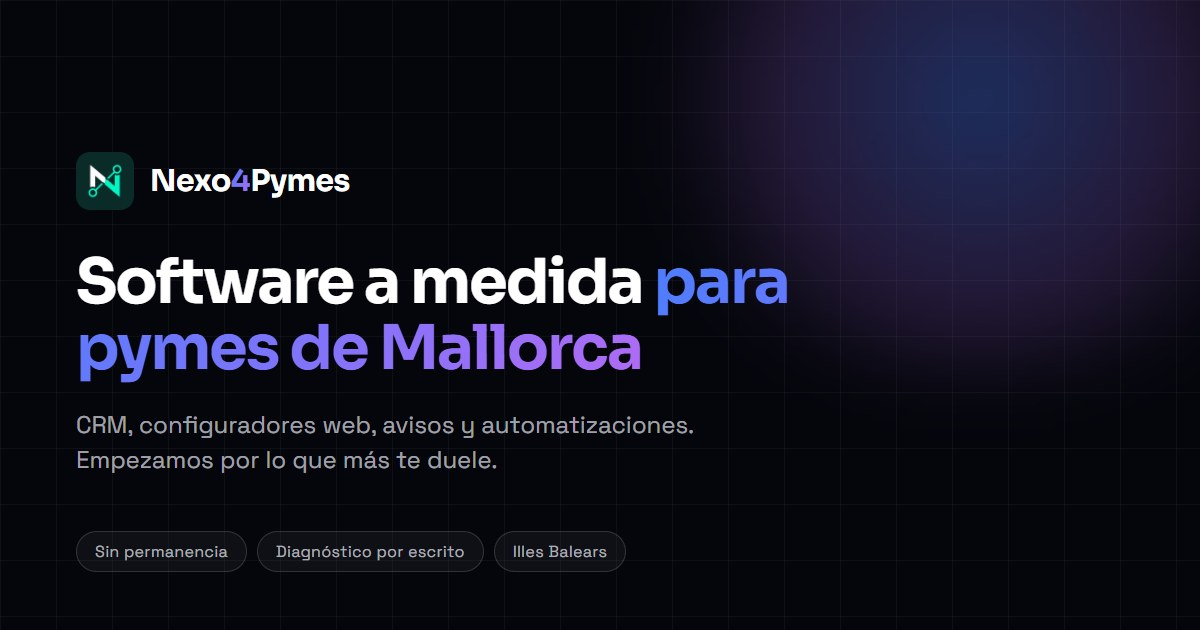
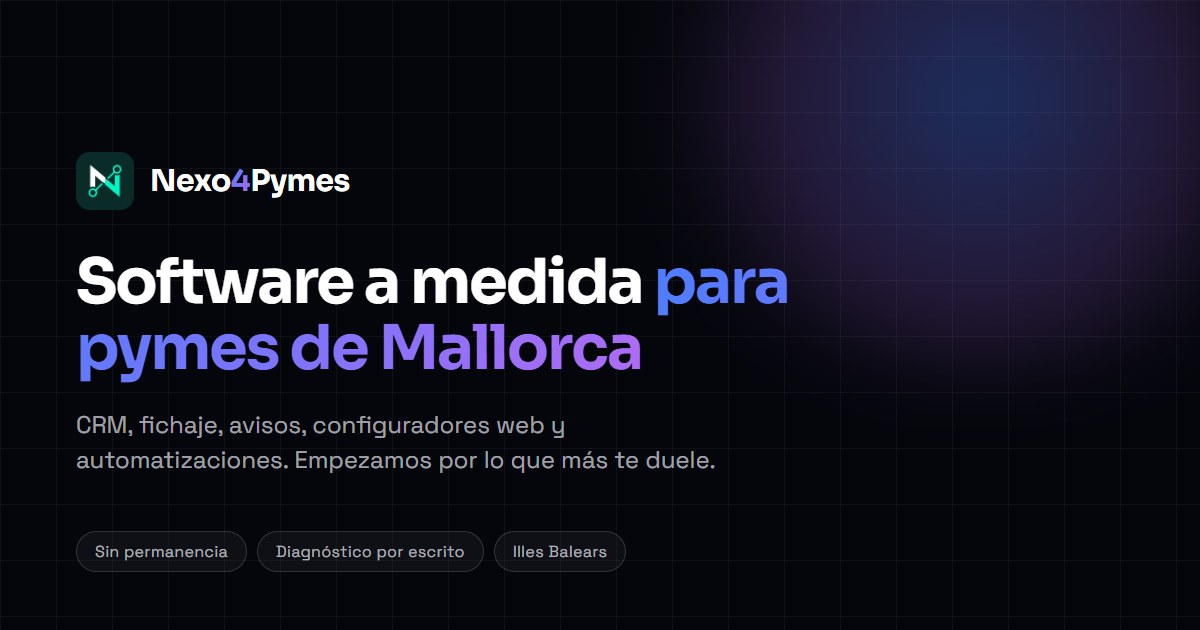
Datos legales en un solo sitio, y el fichaje como cuarta pieza
DATOS LEGALES
La web llevaba meses publicando cinco "[PENDIENTE]" en el CIF, el
domicilio y los datos registrales. No fue mala fe: es que un hueco en
el aviso legal no rompe nada, no sale en ningun error y no lo ve quien
despliega. Solo lo ve el cliente que entra a comprobar si la empresa
existe — que es justo el que estaba a punto de fiarse.

- los datos salen de content/marca.ts, un solo sitio. Antes estaban a
  mano y repetidos en dos listas de la misma pagina, que es como se
  acaban contradiciendo
- el build AVISA cuando falta algo, diciendo que campo y donde se
  edita. Avisa, no rompe: tumbar el despliegue por un dato que se esta
  tramitando en una notaria seria peor
- lo que falta se dice con una frase normal ("pendiente de
  completar"), no con un corchete de programador
- los datos registrales no se pintan como hueco: no pueden existir
  hasta que exista la sociedad, y ensenar un vacio ahi confunde
- figura el NIF del titular, no un CIF: la S.L. esta en constitucion,
  asi que quien responde del sitio es la persona fisica y la LSSI
  obliga a identificarla. Se explica en la propia pagina para que no
  parezca un error
- la fecha de ultima revision tambien sale del mismo archivo: escrita
  a mano se quedaba vieja en cuanto alguien tocaba el texto

Quedan por rellenar el nombre completo del titular y el domicilio.
El build los nombra en cada despliegue hasta que esten.

FICHAJE
Ya esta construido y funcionando en una app de cliente, asi que entra
[…]

Changed region(s): [[0.0617, 0.7238, 0.5858, 0.754], [0.0925, 0.6635, 0.5858, 0.6937]]

diff --git a/app/legal/page.tsx b/app/legal/page.tsx
@@ -3,7 +3,8 @@ import Link from "next/link";
 import { FondoAmbiente } from "@/components/ui/FondoAmbiente";
 import { Reveal } from "@/components/motion/Reveal";
 import { BotonPreferencias } from "@/components/legal/BotonPreferencias";
-import { marca } from "@/content/marca";
+import { datosLegales, marca } from "@/content/marca";
+import { esPendiente, revisarDatosLegales } from "@/lib/legal";
 
 /* Aviso legal, privacidad y cookies.
    Tres secciones apiladas con id propio, no pestañas: así los enlaces
@@ -11,8 +12,22 @@ import { marca } from "@/content/marca";
    texto entero.
 
    El texto es el mismo, palabra por palabra: es contenido legal, no
-   copy de marketing. Los [PENDIENTE] son reales — se completan al
-   inscribir la sociedad. */
+   copy de marketing.
+
+   LOS DATOS DE LA EMPRESA YA NO SE ESCRIBEN AQUÍ. Vienen de
+   content/marca.ts → datosLegales, que es el único sitio donde se
+   tocan. Antes estaban a mano en esta página y llevaban meses
+   publicando cinco "[PENDIENTE]" en internet sin que nadie se
+   enterara: un hueco en el aviso legal no rompe nada y no sale en
+   ningún error, solo lo ve el cliente que entra a comprobar si la
+   empresa existe.
+
+   Ahora el build lo avisa (ver lib/legal.ts) y lo que falta se dice
+   con una frase honesta en vez de un corchete de programador. */
+
+/* Se ejecuta al construir la página, no en el navegador: el aviso
+   sale en el registro del despliegue. */
+revisarDatosLegales();
 
 export const metadata: Metadata = {
   title: "Aviso legal, privacidad y cookies",
@@ -34,6 +49,15 @@ function Pendiente({ children }: { children: React.ReactNode }) {
       {children}
     </span>
   );
+}
+
+/* Pinta un dato legal, o dice con una frase normal que todavía no está.
+   Lo que había antes era "[PENDIENTE — se asignará tras la inscripción
+   en el Registro Mercantil]": un corchete de programador publicado en
+   internet, que a un cliente le dice "esta web está a medio hacer". */
+function Dato({ valor, falta }: { valor: string; falta: string }) {
+  if (esPendiente(valor)) return <Pendiente>{falta}</Pendiente>;
+  return <>{valor}</>;
 }
 
 function Tarjeta({ children }: { children: React.ReactNode }) {
@@ -82,7 +106,13 @@ export default function PaginaLegal() {
             </h1>
           </Reveal>
           <Reveal retraso={0.06}>
-            <p className="mt-3 text-[14px] text-white/58">Última actualización: 4 de agosto de 2026</p>
+            {/* La fecha sale de content/marca.ts: escrita a mano aquí se
+                quedaba vieja cada vez que se tocaba el texto legal, y una
+                política de privacidad con fecha antigua resta credibilidad
+                justo donde se está pidiendo confianza. */}
+            <p className="mt-3 text-[14px] text-white/58">
+              Última actualización: {datosLegales.ultimaRevision}
+            </p>
           </Reveal>
 
           <Reveal retraso={0.12}>
@@ -113,18 +143,33 @@ export default function PaginaLegal() {
                 </p>
                 <Tarjeta>
                   <li>
-                    <strong className="font-medium text-[#F4F6FF]">Denominación social:</strong>{" "}
-                    Nexo4Pymes Automatización, S.L. (sociedad en constitución)
+                    <strong className="font-medium text-[#F4F6FF]">Titular del sitio:</strong>{" "}
+                    <Dato valor={datosLegales.titular} falta="pendiente de completar" />
                   </li>
                   <li>
-                    <strong className="font-medium text-[#F4F6FF]">CIF:</strong>{" "}
-                    <Pendiente>
-                      [PENDIENTE — se asignará tras la inscripción en el Registro Mercantil]
-                    </Pendiente>
+                    <strong className="font-medium text-[#F4F6FF]">Nombre comercial:</strong>{" "}
+                    {datosLegales.nombreComercial} — {marca.razonSocial}
                   </li>
                   <li>
-                    <strong className="font-medium text-[#F4F6FF]">Domicilio social:</strong> Mallorca,
-                    Illes Balears, España — <Pendiente>[PENDIENTE dirección completa]</Pendiente>
+                    <strong className="font-medium text-[#F4F6FF]">
+                      {datosLegales.etiquetaIdentificacion}:
+                    </strong>{" "}
+                    <Dato valor={datosLegales.identificacion} falta="pendiente de asignación" />
+                    {datosLegales.tipoTitular === "persona" && (
+                      <span className="text-white/50">
+                        {" "}
+                        — la sociedad está en constitución, así que responde del sitio la persona
+                        física hasta que se le asigne CIF
+                      </span>
+                    )}
+                  </li>
+                  <li>
+                    <strong className="font-medium text-[#F4F6FF]">
+                      Domicilio a efectos de notificaciones:
+                    </strong>{" "}
+                    <Dato valor={datosLegales.domicilio} falta="pendiente de completar" />
+                    {!esPendiente(datosLegales.domicilio) && " — "}
+                    {!esPendiente(datosLegales.domicilio) && `${marca.localidad}, ${marca.region}, España`}
                   </li>
                   <li>
                     <strong className="font-medium text-[#F4F6FF]">Correo electrónico:</strong>{" "}
@@ -136,12 +181,21 @@ export default function PaginaLegal() {
                     <strong className="font-medium text-[#F4F6FF]">Actividad:</strong> desarrollo de
                     software a medida e integración de sistemas para pymes y autónomos
                   </li>
-                  <li>
-                    <strong className="font-medium text-[#F4F6FF]">Datos registrales:</strong>{" "}
-                    <Pendiente>
-                      [PENDIENTE — se completará al inscribirse la sociedad en el Registro Mercantil]
-                    </Pendiente>
-                  </li>
+                  {/* Los datos registrales solo existen cuando existe la
+                      sociedad. Mientras no exista, la línea no se pinta:
+                      enseñar un hueco donde no puede haber nada todavía
+                      confunde más que no decir nada. */}
+                  {datosLegales.registroMercantil ? (
+                    <li>
+                      <strong className="font-medium text-[#F4F6FF]">Datos registrales:</strong>{" "}
+                      {datosLegales.registroMercantil}
+                    </li>
+                  ) : (
+                    <li className="text-white/55">
+                      <strong className="font-medium text-[#F4F6FF]">Datos registrales:</strong> se
+                      publicarán cuando la sociedad quede inscrita en el Registro Mercantil.
+                    </li>
+                  )}
                 </Tarjeta>
 
                 <h3 className="mt-8 text-[18px] text-[#F4F6FF]">2. Objeto y condiciones de uso</h3>
@@ -196,16 +250,25 @@ export default function PaginaLegal() {
 
                 <h3 className="mt-8 text-[18px] text-[#F4F6FF]">1. Responsable del tratamiento</h3>
                 <Tarjeta>
+                  {/* Mismos datos que el aviso legal y de la misma fuente:
+                      dos listas escritas a mano se acaban contradiciendo
+                      en cuanto alguien actualiza una sola. */}
                   <li>
                     <strong className="font-medium text-[#F4F6FF]">
-                      Nexo4Pymes Automatización, S.L.
+                      <Dato valor={datosLegales.titular} falta="pendiente de completar" />
                     </strong>{" "}
-                    (sociedad en constitución)
+                    ({marca.razonSocial})
                   </li>
                   <li>
-                    CIF: <Pendiente>[PENDIENTE]</Pendiente>
+                    {datosLegales.etiquetaIdentificacion}:{" "}
+                    <Dato valor={datosLegales.identificacion} falta="pendiente de asignación" />
                   </li>
-                  <li>Domicilio: Mallorca, Illes Balears, España</li>
+                  <li>
+                    Domicilio:{" "}
+                    <Dato valor={datosLegales.domicilio} falta="pendiente de completar" />
+                    {!esPendiente(datosLegales.domicilio) &&
+                      ` — ${marca.localidad}, ${marca.region}, España`}
+                  </li>
                   <li>
                     Email:{" "}
                     <a href={`mailto:${marca.email}`} className="text-[#9FB6FF] underline underline-offset-4 hover:text-white">

diff --git a/content/servicios.ts b/content/servicios.ts
@@ -47,14 +47,14 @@ export const heroServicios = {
   ],
 };
 
-/* Tres tarjetas = una fila exacta en escritorio (lg:grid-cols-3).
+/* Cuatro tarjetas en rejilla de 2x2 (antes eran tres en una fila).
    Cada una lleva cinco `items` porque esta es la página del
    detalle: es aquí donde alguien viene a ver el alcance real. */
 export const servicios = {
   categoria: "Qué construimos",
-  titular: "Tres piezas de software, y se empieza por una",
+  titular: "Cuatro piezas de software, y se empieza por una",
   intro:
-    "Nada de «soluciones digitales». Esto es lo que se construye, con su alcance y sus límites. No hace falta encargar las tres: en el roadmap se decide cuál compensa primero y en qué orden van las demás.",
+    "Nada de «soluciones digitales». Esto es lo que se construye, con su alcance y sus límites. No hace falta encargarlas todas: en el roadmap se decide cuál compensa primero y en qué orden van las demás.",
   tarjetas: [
     {
       icono: "lista" as const,
@@ -82,6 +82,29 @@ export const servicios = {
         "Vista previa visual de lo que está montando, cuando el producto lo permite",
         "La solicitud llega ya montada: sin descifrar qué quería el cliente",
         "Se conecta con la gestión, así que el presupuesto no se vuelve a teclear",
+      ],
+    },
+    {
+      /* Pieza propia y no una línea dentro del CRM: "fichaje" es lo que
+         la gente teclea en Google por su nombre, y quien lo busca no lo
+         encuentra debajo de "sistemas de gestión". Está construido y
+         funcionando en una app de cliente, así que se habla en presente.
+
+         OJO CON LAS PALABRAS: nada de "homologado", "cumple la ley" ni
+         "a prueba de inspección". Lo que se puede afirmar es que el
+         registro es trazable; si cumple o no en un caso concreto lo
+         dice la gestoría de cada empresa, no nosotros. */
+      icono: "reloj" as const,
+      tono: "azul" as const,
+      titulo: "Fichaje y control de jornada",
+      texto:
+        "Cada persona ficha desde su propio móvil y las horas se suman solas. Pensado para equipos que no están sentados en una oficina.",
+      items: [
+        "Entrada, salida y pausas desde el móvil, con su hora y su ubicación",
+        "Horas por persona, por semana y por proyecto, sin cuadrar partes a mano",
+        "Registro trazable: queda quién fichó, cuándo y desde dónde",
+        "Los responsables ven el equipo entero; cada persona, solo lo suyo",
+        "Validadlo con vuestra gestoría: nosotros construimos la herramienta, no certificamos el cumplimiento",
       ],
     },
     {

diff --git a/lib/legal.ts b/lib/legal.ts
@@ -1,0 +1,68 @@
+import { datosLegales, marcadorPendiente } from "@/content/marca";
+
+/* ============================================================
+   CONTROL DE LOS DATOS LEGALES
+
+   La web estuvo meses publicando "[PENDIENTE]" en el CIF, el
+   domicilio y los datos registrales. No fue mala fe: fue que nadie
+   se enteró. Un hueco en el aviso legal no rompe nada, no sale en
+   ningún error y no lo ve quien despliega — solo lo ve el cliente
+   que entra a comprobar si la empresa existe, que es justo el que
+   estaba a punto de fiarse.
+
+   Así que ahora el build lo dice. `revisarDatosLegales()` se llama
+   al construir la página de /legal y escribe un aviso bien visible
+   en el registro del despliegue si queda algo por rellenar.
+
+   AVISA, NO ROMPE. Tumbar el build por esto dejaría la web sin
+   desplegar por un dato que probablemente se está tramitando en
+   una notaría. El objetivo es que no pase desapercibido, no
+   bloquear el trabajo.
+
+   Cuando esté todo relleno, esta función deja de escribir nada y
+   no hay que quitarla: si un día se añade un campo nuevo sin
+   completar, vuelve a avisar sola.
+   ============================================================ */
+
+/** Campos obligatorios por el artículo 10 de la LSSI-CE. */
+const OBLIGATORIOS = [
+  ["titular", datosLegales.titular],
+  ["identificacion", datosLegales.identificacion],
+  ["domicilio", datosLegales.domicilio],
+] as const;
+
+/** Nombres de los campos que siguen sin rellenar. Vacío si está todo. */
+export function datosLegalesPendientes(): string[] {
+  return OBLIGATORIOS.filter(
+    ([, valor]) => !valor || valor.includes(marcadorPendiente),
+  ).map(([campo]) => campo);
+}
+
+/** ¿Este valor concreto es todavía un marcador? */
+export function esPendiente(valor: string): boolean {
+  return !valor || valor.includes(marcadorPendiente);
+}
+
+/**
+ * Escribe el aviso en el registro del build. Se llama una vez, desde
+ * la página de /legal.
+ */
+export function revisarDatosLegales(): void {
+  const pendientes = datosLegalesPendientes();
+  if (pendientes.length === 0) return;
+
+  console.warn(
+    [
+      "",
+      "  ⚠  AVISO LEGAL INCOMPLETO",
+      "",
+      `  Faltan por rellenar: ${pendientes.join(", ")}`,
+      "  Se editan en content/marca.ts → datosLegales",
+      "",
+      "  El artículo 10 de la LSSI-CE obliga a identificar a quien",
+      "  responde del sitio. Mientras falten, la página lo dice en",
+      "  vez de inventarse un dato.",
+      "",
+    ].join("\n"),
+  );
+}

diff --git a/content/inicio.ts b/content/inicio.ts
@@ -210,9 +210,9 @@ export const antesDespues = {
    ------------------------------------------------------------ */
 export const serviciosInicio = {
   categoria: "Qué construimos",
-  titular: "Tres piezas, y se empieza por una",
+  titular: "Cuatro piezas, y se empieza por una",
   intro:
-    "Nada de «soluciones digitales». Esto es lo que se construye, en concreto. No hace falta encargar las tres: en el roadmap se decide cuál compensa primero y en qué orden van las demás.",
+    "Nada de «soluciones digitales». Esto es lo que se construye, en concreto. No hace falta encargarlas todas: en el roadmap se decide cuál compensa primero y en qué orden van las demás.",
   tarjetas: [
     {
       icono: "lista" as const,
@@ -229,6 +229,19 @@ export const serviciosInicio = {
       texto:
         "Una herramienta en vuestra web para que el cliente personalice, diseñe o cotice su producto en tiempo real.",
       metrica: "El cliente se hace el presupuesto solo, a cualquier hora",
+    },
+    {
+      /* El fichaje entra como pieza propia y no como una línea dentro
+         del CRM: es lo que más se busca por su nombre y quien lo
+         necesita no lo encuentra mirando "sistemas de gestión". Ya
+         está construido y funcionando en una app de cliente, así que
+         no es una promesa — se dice en presente. */
+      icono: "reloj" as const,
+      tono: "azul" as const,
+      titulo: "Fichaje y control de jornada",
+      texto:
+        "Cada persona ficha desde su móvil, con su hora y su sitio. Las horas salen solas, sin cuadrar partes a mano a final de mes.",
+      metrica: "Registro de jornada trazable, sin papeles",
     },
     {
       icono: "engranaje" as const,

diff --git a/components/inicio/ServiciosInicio.tsx b/components/inicio/ServiciosInicio.tsx
@@ -13,9 +13,11 @@ import { serviciosInicio } from "@/content/inicio";
    vive en /servicios; aquí solo hay lo justo para que alguien
    reconozca su problema y siga bajando.
 
-   Eran seis módulos de automatización. Tres encajan en una fila
-   exacta en escritorio (lg:grid-cols-3); una cuarta se quedaría
-   sola en la segunda fila.
+   Eran seis módulos de automatización, luego tres piezas y ahora
+   cuatro (entró el fichaje, que ya está construido). Por eso la
+   rejilla pasó de lg:grid-cols-3 a dos columnas: con tres columnas
+   la cuarta tarjeta se quedaba sola en la segunda fila. Si algún día
+   vuelven a ser tres, hay que devolver lg:grid-cols-3.
 
    El tinte del resplandor de cada tarjeta se toma del `tono` del
    contenido, para que las columnas no queden todas del mismo
@@ -41,7 +43,7 @@ export function ServiciosInicio() {
         </Reveal>
       </div>
 
-      <Stagger className="mt-10 grid gap-4 sm:mt-14 sm:grid-cols-2 sm:gap-5 lg:grid-cols-3">
+      <Stagger className="mt-10 grid gap-4 sm:mt-14 sm:grid-cols-2 sm:gap-5">
         {serviciosInicio.tarjetas.map((tarjeta) => (
           <ItemStagger key={tarjeta.titulo} as="article">
             <TarjetaGlow className="h-full" color={TINTES[tarjeta.tono]}>

diff --git a/components/servicios/ServiciosGrid.tsx b/components/servicios/ServiciosGrid.tsx
@@ -21,7 +21,7 @@ export function ServiciosGrid() {
         </Reveal>
       </div>
 
-      <div className="mt-12 grid gap-5 sm:grid-cols-2 lg:grid-cols-3">
+      <div className="mt-12 grid gap-5 sm:grid-cols-2">
         {servicios.tarjetas.map((tarjeta, i) => (
           <Reveal key={tarjeta.titulo} retraso={(i % 3) * 0.08}>
             <TarjetaGlow color={GLOW[tarjeta.tono]} className="h-full">
